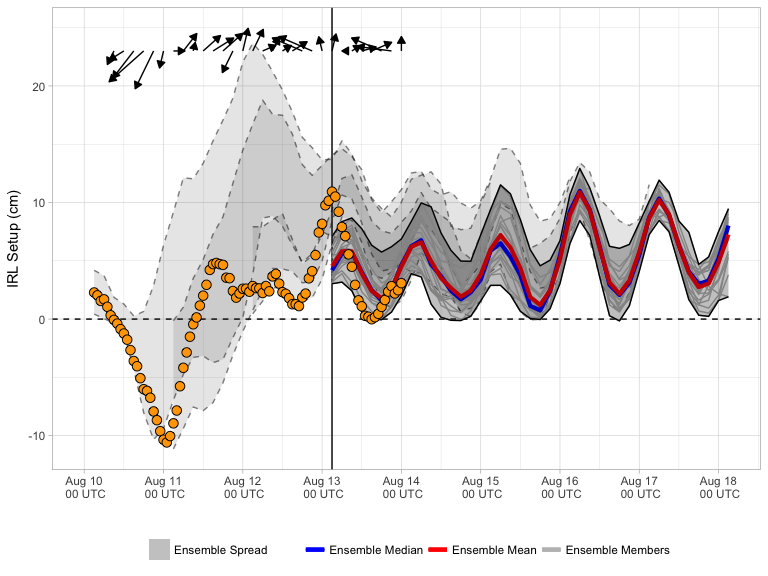
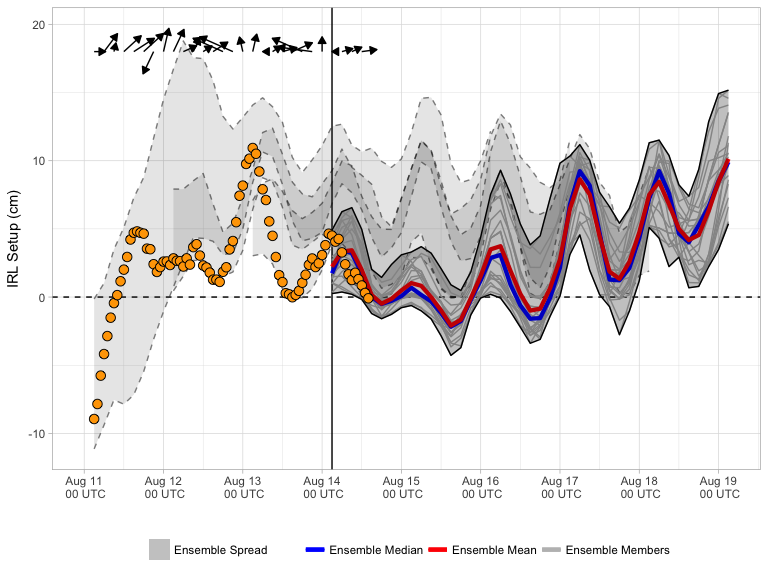
20170814 forecast update

diff --git a/docs/index.md b/docs/index.md
@@ -3,7 +3,7 @@ Current Forecast
 
 [![](img/raw_setup.png)](https://bhlmn.github.io/IRLSetup/img/raw_setup.png)
 
-> Forecast valid 2017-08-13 19:12:35.
+> Forecast valid 2017-08-14 07:27:08.
 
 Explanation
 -----------
@@ -17,7 +17,7 @@ star), and Sebastian, FL (white star). In general, southerly (northerly)
 winds result in increased water elevation near Titusville (Sebastian)
 and positive (negative) setup.
 
-The current (18 UTC 2017-08-12) 0.5° [Global Ensemble Forecast System
+The current (18 UTC 2017-08-13) 0.5° [Global Ensemble Forecast System
 (GEFS)](https://www.ncdc.noaa.gov/data-access/model-data/model-datasets/global-ensemble-forecast-system-gefs)
 mean and median forecasts of setup are represented by the red and blue
 curves, respectively. Ensemble spread from the current and three
